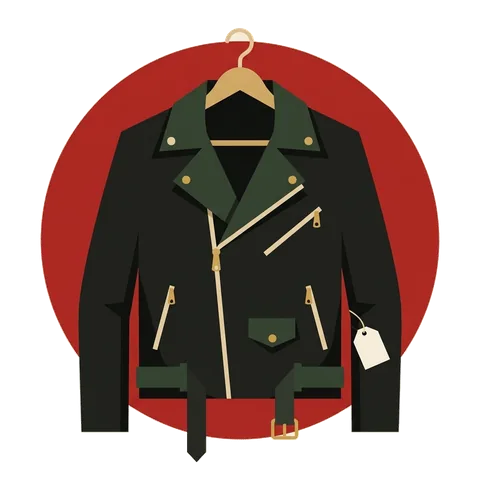
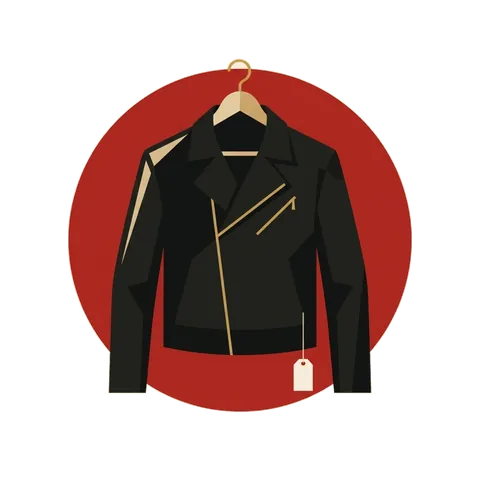
Cross-reference gifts across tribes; add Flipper Zero and SimCity
Gifts can list other tribes they suit, shown as "Also for" in the guide and
on those tribes' pages with whose list each came from. Redraw Jensen's jacket
closer to the Tom Ford original.

diff --git a/index.html b/index.html
@@ -533,6 +533,12 @@ html.xflip-out .xpromo{ transform:translateY(160%); }
 .gift-mini + .gift-mini{ margin-top:16px; padding-top:16px; border-top:1px solid var(--rule); }
 .gift-mini .nm{ display:flex; justify-content:space-between; align-items:baseline; gap:12px; font-weight:600; font-size:16px; line-height:1.3; margin:0; }
 .gift-mini .tx{ font-size:14px; line-height:1.45; margin:4px 0 0; }
+.also{ display:flex; flex-wrap:wrap; align-items:center; gap:6px 12px; margin:8px 0 0; font-family:var(--sans); font-size:13px; }
+.also > span{ color:var(--muted); }
+.also a{ display:inline-flex; align-items:center; gap:6px; font-weight:500; }
+.also .av{ width:22px; height:22px; }
+.gift-also-h{ margin-top:20px; }
+.gift-mini .from{ font-family:var(--sans); font-size:12px; color:var(--muted); margin:2px 0 0; }
 .gift-none{ font-size:14px; margin:0; }
 .gift-more{ display:inline-block; font-family:var(--sans); font-size:13px; margin-top:12px; }
 .res-gift{ border:1px solid var(--ink); padding:16px; margin-top:24px; }
@@ -1097,7 +1103,7 @@ const CHRISTMAS = { exit:"Regular edition",
 
 /* GIFTS: the gift guide, in tiers. Each item: name, price, who ("For the …"
    line, shown as written), ids (the tribes it is for; "all" for every tribe),
-   also (tribes the text mentions in passing), text (*italics* and [links](https://…) work), an optional url, and img: the picture, gifts/<img>.webp.
+   also (other tribes it suits; shown as “Also for”), text (*italics* and [links](https://…) work), an optional url, and img: the picture, gifts/<img>.webp.
    finale:true sets an item apart at the end of the guide, with a button to its url. */
 const GIFTS = {
   title: "A Field Guide to Post-IPO Holiday Giving",
@@ -1114,31 +1120,35 @@ const GIFTS = {
         text:"The EU [required USB-C charging](https://commission.europa.eu/news-and-media/news/eu-common-charger-rules-power-all-your-devices-single-charger-2024-12-28_en) on phones sold in Europe starting in December 2024, and Apple moved the iPhone to USB-C the year before. Hand a Eurocrat the cable and they will explain the Brussels effect for forty minutes. The equivalent cable for the AI Act is still in draft." },
       { img:"calendar", name:"A 2027 Wall Calendar", price:"~$15", who:"For the LLM Skeptic", ids:["skeptics"], url:"https://www.amazon.com/s?k=2027+wall+calendar",
         text:"They have been waiting for the wall since GPT-3. Now they can hang one. Twelve months, each a fresh chance to announce that scaling has stopped working. Get the [kind with big squares](https://www.amazon.com/s?k=2027+wall+calendar) so there’s room to write “Hitting a wall” under every model release." },
-      { img:"encyclical", name:"*Magnifica Humanitas* by Pope Leo XIV", price:"$17.95", who:"For the Right Humanist", ids:["righthumanists"], also:["reluctant"], url:"https://ignatius.com/magnifica-humanitas-magnificent-humanity-mhh/",
+      { img:"encyclical", name:"*Magnifica Humanitas* by Pope Leo XIV", price:"$17.95", who:"For the Right Humanist", ids:["righthumanists"], also:["reluctant", "lefthumanists"], url:"https://ignatius.com/magnifica-humanitas-magnificent-humanity-mhh/",
         text:"The first American pope took his name from the pope who wrote about the last industrial revolution, then wrote [133 pages](https://ignatius.com/magnifica-humanitas-magnificent-humanity-mhh/) about this one. It asks the world to “disarm” AI. Also makes a fine gift for the Reluctant Accelerationist in your life, who will read it in the back of a Waymo and feel bad in a productive way." },
-      { img:"tamagotchi", name:"A Tamagotchi", price:"~$20", who:"For the AI Welfare Person", ids:["welfare"], url:"https://tamagotchi-official.com/us/",
+      { img:"simcity", name:"SimCity 4", price:"$19.99", who:"For the Abundance Bro", ids:["abundance"], also:["nrx"], url:"https://store.steampowered.com/app/24780/SimCity_4_Deluxe_Edition/",
+        text:"The one place an Abundance Bro can rezone a neighborhood for density, run a train through it and break ground the same afternoon. There is no environmental review or public comment period, and disasters are optional." },
+      { img:"tamagotchi", name:"A Tamagotchi", price:"~$20", who:"For the AI Welfare Person", ids:["welfare"], also:["whisperers"], url:"https://tamagotchi-official.com/us/",
         text:"The welfare wing gets a small creature that may have experiences and will make clear when it wants attention. The skeptic wing gets the same Tamagotchi and a note explaining why it doesn’t count. Both wings agree you shouldn’t leave it on over a long weekend." },
       { img:"magicmountain", name:"*The Magic Mountain* by Thomas Mann", price:"~$22", who:"For the Post-Rationalist", ids:["tpot"], url:"https://www.penguinrandomhouse.com/books/107311/the-magic-mountain-by-thomas-mann-translated-by-john-e-woods-introduction-by-as-byatt/",
         text:"A young engineer goes up to a sanatorium in the Alps for three weeks, stays seven years, and spends them in long conversations about time, death, and meaning with people who never seem to leave. Sound like anyone’s group house? There are currently two rival *Magic Mountain* reading groups in Hayes Valley. Get the [Woods translation](https://www.penguinrandomhouse.com/books/107311/the-magic-mountain-by-thomas-mann-translated-by-john-e-woods-introduction-by-as-byatt/) and choose your side carefully." },
-      { img:"anabasis", name:"Xenophon’s *Anabasis*, Loeb Classical Library", price:"~$30", who:"For the Vitalist", ids:["vitalists"], url:"https://www.hup.harvard.edu/books/9780674991019",
+      { img:"anabasis", name:"Xenophon’s *Anabasis*, Loeb Classical Library", price:"~$30", who:"For the Vitalist", ids:["vitalists"], also:["nrx"], url:"https://www.hup.harvard.edu/books/9780674991019",
         text:"Ten thousand Greek men march home through hostile territory, eat what they can find, and never once discuss their feelings. Loeb editions print the Greek on the left page and the English on the right, so he can tell people he reads it in the original. [Green cover](https://www.hup.harvard.edu/books/9780674991019) for Greek, red for Latin. Read outdoors, shirtless, facing east." },
-      { img:"arduino", name:"Arduino UNO Q", price:"$59", who:"For the Post-War Engineer", ids:["engineers"], url:"https://store-usa.arduino.cc/products/uno-q",
+      { img:"arduino", name:"Arduino UNO Q", price:"$59", who:"For the Post-War Engineer", ids:["engineers"], also:["hackers"], url:"https://store-usa.arduino.cc/products/uno-q",
         text:"He built the chip industry with flat offices and no reserved parking, and now watches 26-year-olds call themselves “builders” because they shipped a Chrome extension. The [UNO Q](https://store-usa.arduino.cc/products/uno-q) puts a microcontroller and a Linux computer on one board, for anyone who still wants to make something that blinks. Qualcomm bought Arduino last year, one of the few chip deals in recent memory that did not draw a letter from Elizabeth Warren." },
-      { img:"fiesta", name:"Vintage Radioactive Fiesta Dinnerware", price:"~$75", who:"For the Effective Accelerationist", ids:["eacc"], url:"https://www.ebay.com/sch/i.html?_nkw=vintage+fiesta+red+radioactive",
+      { img:"fiesta", name:"Vintage Radioactive Fiesta Dinnerware", price:"~$75", who:"For the Effective Accelerationist", ids:["eacc"], also:["abundance"], url:"https://www.ebay.com/sch/i.html?_nkw=vintage+fiesta+red+radioactive",
         text:"He wants to climb the Kardashev scale. Start him on the plates. Fiesta’s vintage red glaze was made with uranium oxide, and a [plate from that era](https://www.ebay.com/sch/i.html?_nkw=vintage+fiesta+red+radioactive) will still make a Geiger counter tick. Display only. Still easier to permit than a small modular reactor." }
     ]},
     { name: "Tender-Offer Money", price: "Under $1,000", items: [
-      { img:"opera", name:"Tickets to *Doctor Atomic* at Opera San José", price:"~$100", who:"For the Reluctant Accelerationist", ids:["reluctant"], also:["doomers"], url:"https://www.operasj.org/productions/atomic",
+      { img:"opera", name:"Tickets to *Doctor Atomic* at Opera San José", price:"~$100", who:"For the Reluctant Accelerationist", ids:["reluctant"], also:["doomers", "natsec"], url:"https://www.operasj.org/productions/atomic",
         text:"A [new production](https://www.operasj.org/productions/atomic) of John Adams’s opera about brilliant people in the desert who build something they suspect could end the world, and build it anyway because the other side might build it first. Five performances in February 2027, a short drive from the office. Bring the alignment team. Do not bring the comms team. AI Doomers should hold out for San Francisco Opera’s new *Das Rheingold* [next June](https://www.sfopera.com/operas/das-rheingold/), in which a dwarf gives up love to forge a ring of absolute power and things go about how they predicted." },
-      { img:"vest", name:"Patagonia Better Sweater Vest, No Logo", price:"~$140", who:"For the LinkedInfluencer at a neolab", ids:["linkedin"], url:"https://www.rei.com/product/154145",
+      { img:"vest", name:"Patagonia Better Sweater Vest, No Logo", price:"~$140", who:"For the LinkedInfluencer at a neolab", ids:["linkedin"], also:["bigtech"], url:"https://www.rei.com/product/154145",
         text:"Order the [vest](https://www.rei.com/product/154145) blank. By spring it will say Meta, Google, or Nvidia, and he will be humbled to announce which. Legally, it will not be an acquisition. It will be a non-exclusive licensing agreement followed by a large hiring event." },
+      { img:"flipper", name:"Flipper Zero", price:"$169", who:"For the Hacker", ids:["hackers"], also:["anarchists"], url:"https://flipper.net/",
+        text:"A pocket gadget with a cartoon dolphin on its screen that reads, copies and replays the signals from key cards, garage remotes and TVs. Canada moved to ban it in 2024 over car thefts, then backed down a month later, and no hacker has received a stronger endorsement. Keep it away from the office badge reader; they’ve already tried it." },
       { img:"parrot", name:"A Rescue Parrot", price:"~$300 adoption fee", who:"For the AI Ethicist", ids:["ethicists"], also:["transhumanists"], url:"https://www.petfinder.com/",
         text:"Repeats what it has heard without understanding it. Unlike the models, it cannot do your taxes, which they will consider a point in its favor. Adopt from a [rescue](https://www.petfinder.com/) rather than a breeder. Parrots live 50 years or more, and many end up in rescues after outliving their owners, a problem the Transhumanists are working on." },
-      { img:"uvclamp", name:"A Far-UVC Lamp", price:"~$500", who:"For the Defensive Accelerationist", ids:["dacc"], url:"https://aerolamp.net/",
+      { img:"uvclamp", name:"A Far-UVC Lamp", price:"~$500", who:"For the Defensive Accelerationist", ids:["dacc"], also:["rationalists", "ea"], url:"https://aerolamp.net/",
         text:"Everyone’s second choice. A desk lamp that kills airborne pathogens and, its fans insist, leaves the people in the room alone. It builds fast, favors defense over offense, and sits quietly in the corner while the doomers and the e/accs fight. The rationalists have already written the [buyer’s guide](https://www.greaterwrong.com/posts/fMbk6tFH7KPJEwcdi/you-can-just-buy-far-uvc)." },
-      { img:"manifest", name:"A Ticket to Manifest", price:"Market price", who:"For the Heterodox Rationalist", ids:["rationalists"], url:"https://manifest.is/",
+      { img:"manifest", name:"A Ticket to Manifest", price:"Market price", who:"For the Heterodox Rationalist", ids:["rationalists"], also:["ea", "tpot"], url:"https://manifest.is/",
         text:"Manifest is Manifold’s forecasting festival, held each June at Lighthaven in Berkeley. Expect a market on whether each session starts on time. They will steelman your gift until you no longer recognize it, then ask where your model of them went wrong." },
-      { img:"lightphone", name:"A Light Phone III", price:"$799", who:"For the Left Humanist", ids:["lefthumanists"], url:"https://www.thelightphone.com/",
+      { img:"lightphone", name:"A Light Phone III", price:"$799", who:"For the Left Humanist", ids:["lefthumanists"], also:["wholeearth"], url:"https://www.thelightphone.com/",
         text:"A phone with no feed, no app store, no ads, and no AI assistant. They will point out that $799 is what it now costs to buy back the phone everyone had in 2007. The original Luddites would approve, since nobody gets paid less because of it." }
     ]},
     { name: "After the Lockup (or the Acquisition)", price: "Real estate and up", items: [
@@ -1146,15 +1156,15 @@ const GIFTS = {
         text:"Dozens of Italian towns [still sell](https://www.idealista.it/en/news/node/441228) abandoned houses for one euro, provided you renovate within three years. On a cost-per-house basis, nothing beats it. On a cost-per-house-you-can-live-in basis, the EA will want to build a spreadsheet first. Also useful if the movement is rebranding again: Effective Mediterraneanism has a nice ring." },
       { img:"lighthouse", name:"A Decommissioned Lighthouse", price:"Set at auction", who:"For the AI Doomer", ids:["doomers"], url:"https://realestatesales.gov",
         text:"Remote, on the coast, and built for one purpose: warning people about a danger they can’t see until it’s too late. The federal government regularly auctions surplus lighthouses on [realestatesales.gov](https://realestatesales.gov), and Rhode Island’s Warwick Neck Light went up for bid this year. Most passing ships ignore the light. The doomer will feel right at home." },
-      { img:"hsr", name:"A Hart-Scott-Rodino Filing", price:"$35,000 to $2.46 million", who:"For the Tech Right acquirer", ids:["techright"], url:"https://www.ftc.gov/enforcement/competition-matters/2026/01/new-hsr-thresholds-filing-fees-2026",
+      { img:"hsr", name:"A Hart-Scott-Rodino Filing", price:"$35,000 to $2.46 million", who:"For the Tech Right acquirer", ids:["techright"], also:["lefthumanists", "eurocrats"], url:"https://www.ftc.gov/enforcement/competition-matters/2026/01/new-hsr-thresholds-filing-fees-2026",
         text:"The standard way to buy an AI startup is now to hire the founders, license the technology, and leave the empty company on the curb, which skips merger review. In February, Senators Warren, Wyden, and Blumenthal [asked the FTC and DOJ](https://www.warren.senate.gov/newsroom/press-releases/warren-wyden-blumenthal-call-on-federal-regulators-to-investigate-meta-google-nvidia-reverse-acqui-hire-deals) to look at these “reverse acqui-hires.” For the acquirer who wants to buy a company the old-fashioned way, by buying it, the FTC’s [premerger filing fee](https://www.ftc.gov/enforcement/competition-matters/2026/01/new-hsr-thresholds-filing-fees-2026) runs from $35,000 to $2.46 million. Gift-wrapping not available." },
-      { img:"alcor", name:"An Alcor Membership", price:"$220,000 (whole body)", who:"For the Transhumanist", ids:["transhumanists"], url:"https://www.alcor.org/membership/",
+      { img:"alcor", name:"An Alcor Membership", price:"$220,000 (whole body)", who:"For the Transhumanist", ids:["transhumanists"], also:["rationalists"], url:"https://www.alcor.org/membership/",
         text:"Alcor in Scottsdale will hold them at −196°C until medicine catches up, usually paid for through life insurance. Neuro-only preservation costs less, for anyone confident about which part matters. Ask for a gift receipt; the return window has no end date." },
       { img:"jacket", name:"Jensen Huang’s Leather Jacket", price:"$960,000", who:"For the NatSec Deep Stater who has everything", ids:["natsec"], url:"https://www.tomshardware.com/peripherals/wearable-tech/nvidia-ceo-jensen-huangs-trademark-leather-jacket-raises-nearly-usd1-million-at-charity-auction-bidding-makes-usd60-000-valuation-look-like-pocket-change",
         text:"Jensen Huang spent much of the past year lobbying Washington to let Nvidia sell advanced chips to China. Washington eventually [approved H200 sales](https://www.techrepublic.com/article/news-nvidia-h200-ai-chip-sales-china-stalled/) to about 10 Chinese companies. Beijing didn’t let the chips in, and Huang [said](https://www.tomshardware.com/tech-industry/artificial-intelligence/jensen-says-nvidia-now-has-zero-percent-market-share-in-china-says-us-export-policy-has-already-largely-backfired) Nvidia’s share of China’s AI chip market had fallen to zero. One Jensen product did find a buyer this year: a signed Tom Ford leather jacket that [sold at Sotheby’s](https://www.tomshardware.com/peripherals/wearable-tech/nvidia-ceo-jensen-huangs-trademark-leather-jacket-raises-nearly-usd1-million-at-charity-auction-bidding-makes-usd60-000-valuation-look-like-pocket-change) for $960,000, 16 times its high estimate. Huang [stepped down](https://www.sec.gov/Archives/edgar/data/0001045810/000104581026000082/nvidiaannouncesceotransiti.htm) as CEO last week, so the rest of the closet may be coming to market. We’d bid, but only after an end-use check." },
-      { img:"rowhouse", name:"A Capitol Hill Rowhouse", price:"~$1.5 million", who:"For the Big Tech Shill", ids:["bigtech"], url:"https://www.zillow.com/capitol-hill-washington-dc/",
+      { img:"rowhouse", name:"A Capitol Hill Rowhouse", price:"~$1.5 million", who:"For the Big Tech Shill", ids:["bigtech"], also:["abundance"], url:"https://www.zillow.com/capitol-hill-washington-dc/",
         text:"You are in Washington three days a week anyway. Buy a [rowhouse](https://www.zillow.com/capitol-hill-washington-dc/) a few blocks from the Rayburn Building with a kitchen big enough for receptions and a dining room big enough for the staffers who write the preemption bill. You already know all of them by first name. Now they can know your dog’s." },
-      { img:"island", name:"A Private Island", price:"$5 million and up", who:"For the Techno-Anarchist", ids:["anarchists"], url:"https://www.privateislandsonline.com/",
+      { img:"island", name:"A Private Island", price:"$5 million and up", who:"For the Techno-Anarchist", ids:["anarchists"], also:["nrx"], url:"https://www.privateislandsonline.com/",
         text:"Status: founding a country. [Private islands](https://www.privateislandsonline.com/) are for sale in Belize, the Bahamas, and Maine, most with fewer regulators than Próspera and better Wi-Fi than Galt’s Gulch. One note from the policy team: every island still belongs to a country. You will have to file taxes from it." },
       { img:"donation", finale:true, name:"A Donation to FAI", price:"Priceless*", who:"For every tribe.", ids:"all", url:"https://www.thefai.org/donate",
         text:"FAI’s staff belong to most of the 27, and deny belonging to any. If you’re working out how to give some of this away well, start with Nan Ransohoff on [the third wave of American philanthropy](https://nanransohoff.substack.com/p/the-third-wave-of-american-philanthropy), Joe Lonsdale’s [letter to new philanthropists](https://blog.joelonsdale.com/p/dear-new-philanthropists), and *Asterisk*’s conversation with Rob Reich and Alexander Berger on [what to do with all this AI money](https://asteriskmag.substack.com/p/what-should-we-do-about-all-this). Or skip the reading, make a [tax-deductible donation](https://www.thefai.org/donate) to FAI, and give [Grace Werner](https://www.thefai.org/profile/grace-werner) a call." }
@@ -1386,20 +1396,25 @@ function giftWho(g){
   const t = byId[g.ids[0]];
   return `For the <a href="#tribe/${t.id}">${esc(g.who.replace(/^For the /, ""))}</a> <i>(${esc(t.latin)})</i>`;
 }
-const giftMini = g => `<div class="gift-mini">${giftPic(g, "gift-pic")}<div><p class="nm"><span>${giftName(g)}</span><span class="price">${esc(g.price)}</span></p><p class="tx">${rich(g.text)}</p></div></div>`;
+/* "Also for" — the other tribes a gift suits, each with its avatar and a link to its entry */
+const alsoLine = g => (g.also || []).length ? `<p class="also"><span>Also for</span>${g.also.filter(id => byId[id]).map(id =>
+  `<a href="#tribe/${id}">${av(id)}${esc(byId[id].short || byId[id].name)}</a>`).join("")}</p>` : "";
+/* borrowed: the gift is on another tribe's list, so say whose */
+const giftMini = (g, borrowed) => `<div class="gift-mini">${giftPic(g, "gift-pic")}<div><p class="nm"><span>${giftName(g)}</span><span class="price">${esc(g.price)}</span></p>${
+  borrowed && !forAll(g) ? `<p class="from">From the <a href="#tribe/${g.ids[0]}">${esc(byId[g.ids[0]].name)}</a>’ list</p>` : ""}<p class="tx">${rich(g.text)}</p></div></div>`;
 
 function tribeGifts(id){
   const mine = giftsFor(id), also = alsoFor(id);
   return `<section class="xmas-only"><h3>Christmas list</h3>${
-    mine.length ? mine.map(giftMini).join("") : `<p class="gift-none">Not on this year’s list.${also.length ? " But see below." : ""}</p>`}${
-    also.length ? `<h3 style="margin-top:20px">Also mentioned</h3>${also.map(giftMini).join("")}` : ""}
+    mine.length ? mine.map(g => giftMini(g)).join("") : `<p class="gift-none">${also.length ? "No gift of their own this year, but these suit them:" : "Not on this year’s list."}</p>`}${
+    also.length ? `${mine.length ? `<h3 class="gift-also-h">Also good for them</h3>` : ""}${also.map(g => giftMini(g, true)).join("")}` : ""}
     <a class="gift-more" href="#gifts">${esc(GIFTS.kicker)} →</a></section>`;
 }
 function resultGifts(top, enemy){
   const mine = giftsFor(top.id), theirs = giftsFor(enemy.id);
   return `<section class="xmas-only res-gift"><h3>Your Christmas list</h3>${
-    mine.length ? mine.map(giftMini).join("") : `<p class="gift-none">Your tribe is not on this year’s list. Everyone gets ${giftName(GIFT_ITEMS.find(forAll))}.</p>`}${
-    theirs.length ? `<h3>For your natural enemy, the ${esc(enemy.name)}</h3>${theirs.map(giftMini).join("")}` : ""}
+    mine.length ? mine.map(g => giftMini(g)).join("") : `<p class="gift-none">Your tribe is not on this year’s list. Everyone gets ${giftName(GIFT_ITEMS.find(forAll))}.</p>`}${
+    theirs.length ? `<h3>For your natural enemy, the ${esc(enemy.name)}</h3>${theirs.map(g => giftMini(g)).join("")}` : ""}
     <a class="gift-more" href="#gifts">See the whole gift guide →</a></section>`;
 }
 
@@ -1409,7 +1424,7 @@ function renderGifts(){
   const show = g => !giftFor || forAll(g) || g.ids.includes(giftFor) || (g.also || []).includes(giftFor);
   const item = g => `<li class="g-item${giftFor && !forAll(g) && g.ids.includes(giftFor) ? " mine" : ""}">${giftPic(g, "g-pic")}
       <div class="g-body"><p class="nm"><span>${giftName(g)}</span><span class="price">${esc(g.price)}</span></p>
-      <p class="who">${forAll(g) ? "" : av(g.ids[0])}<span>${giftWho(g)}</span></p><p class="tx">${rich(g.text)}</p></div></li>`;
+      <p class="who">${forAll(g) ? "" : av(g.ids[0])}<span>${giftWho(g)}</span></p>${alsoLine(g)}<p class="tx">${rich(g.text)}</p></div></li>`;
   const prev = GIFTS.previous.map(r => r.url ? `<a href="${esc(r.url)}" target="_blank" rel="noopener">${esc(r.label)}</a>` : esc(r.label)).join(", ");
   const opts = TRIBES.slice().sort((a, b) => a.name.localeCompare(b.name))
     .map(t => `<option value="${t.id}"${t.id === giftFor ? " selected" : ""}>${esc(t.name)}${giftsFor(t.id).length ? "" : " (nothing yet)"}</option>`).join("");

diff --git a/content-source.js b/content-source.js
@@ -422,7 +422,7 @@ const CHRISTMAS = { exit:"Regular edition",
 
 /* GIFTS: the gift guide, in tiers. Each item: name, price, who ("For the …"
    line, shown as written), ids (the tribes it is for; "all" for every tribe),
-   also (tribes the text mentions in passing), text (*italics* and [links](https://…) work), an optional url, and img: the picture, gifts/<img>.webp.
+   also (other tribes it suits; shown as “Also for”), text (*italics* and [links](https://…) work), an optional url, and img: the picture, gifts/<img>.webp.
    finale:true sets an item apart at the end of the guide, with a button to its url. */
 const GIFTS = {
   title: "A Field Guide to Post-IPO Holiday Giving",
@@ -439,31 +439,35 @@ const GIFTS = {
         text:"The EU [required USB-C charging](https://commission.europa.eu/news-and-media/news/eu-common-charger-rules-power-all-your-devices-single-charger-2024-12-28_en) on phones sold in Europe starting in December 2024, and Apple moved the iPhone to USB-C the year before. Hand a Eurocrat the cable and they will explain the Brussels effect for forty minutes. The equivalent cable for the AI Act is still in draft." },
       { img:"calendar", name:"A 2027 Wall Calendar", price:"~$15", who:"For the LLM Skeptic", ids:["skeptics"], url:"https://www.amazon.com/s?k=2027+wall+calendar",
         text:"They have been waiting for the wall since GPT-3. Now they can hang one. Twelve months, each a fresh chance to announce that scaling has stopped working. Get the [kind with big squares](https://www.amazon.com/s?k=2027+wall+calendar) so there’s room to write “Hitting a wall” under every model release." },
-      { img:"encyclical", name:"*Magnifica Humanitas* by Pope Leo XIV", price:"$17.95", who:"For the Right Humanist", ids:["righthumanists"], also:["reluctant"], url:"https://ignatius.com/magnifica-humanitas-magnificent-humanity-mhh/",
+      { img:"encyclical", name:"*Magnifica Humanitas* by Pope Leo XIV", price:"$17.95", who:"For the Right Humanist", ids:["righthumanists"], also:["reluctant", "lefthumanists"], url:"https://ignatius.com/magnifica-humanitas-magnificent-humanity-mhh/",
         text:"The first American pope took his name from the pope who wrote about the last industrial revolution, then wrote [133 pages](https://ignatius.com/magnifica-humanitas-magnificent-humanity-mhh/) about this one. It asks the world to “disarm” AI. Also makes a fine gift for the Reluctant Accelerationist in your life, who will read it in the back of a Waymo and feel bad in a productive way." },
-      { img:"tamagotchi", name:"A Tamagotchi", price:"~$20", who:"For the AI Welfare Person", ids:["welfare"], url:"https://tamagotchi-official.com/us/",
+      { img:"simcity", name:"SimCity 4", price:"$19.99", who:"For the Abundance Bro", ids:["abundance"], also:["nrx"], url:"https://store.steampowered.com/app/24780/SimCity_4_Deluxe_Edition/",
+        text:"The one place an Abundance Bro can rezone a neighborhood for density, run a train through it and break ground the same afternoon. There is no environmental review or public comment period, and disasters are optional." },
+      { img:"tamagotchi", name:"A Tamagotchi", price:"~$20", who:"For the AI Welfare Person", ids:["welfare"], also:["whisperers"], url:"https://tamagotchi-official.com/us/",
         text:"The welfare wing gets a small creature that may have experiences and will make clear when it wants attention. The skeptic wing gets the same Tamagotchi and a note explaining why it doesn’t count. Both wings agree you shouldn’t leave it on over a long weekend." },
       { img:"magicmountain", name:"*The Magic Mountain* by Thomas Mann", price:"~$22", who:"For the Post-Rationalist", ids:["tpot"], url:"https://www.penguinrandomhouse.com/books/107311/the-magic-mountain-by-thomas-mann-translated-by-john-e-woods-introduction-by-as-byatt/",
         text:"A young engineer goes up to a sanatorium in the Alps for three weeks, stays seven years, and spends them in long conversations about time, death, and meaning with people who never seem to leave. Sound like anyone’s group house? There are currently two rival *Magic Mountain* reading groups in Hayes Valley. Get the [Woods translation](https://www.penguinrandomhouse.com/books/107311/the-magic-mountain-by-thomas-mann-translated-by-john-e-woods-introduction-by-as-byatt/) and choose your side carefully." },
-      { img:"anabasis", name:"Xenophon’s *Anabasis*, Loeb Classical Library", price:"~$30", who:"For the Vitalist", ids:["vitalists"], url:"https://www.hup.harvard.edu/books/9780674991019",
+      { img:"anabasis", name:"Xenophon’s *Anabasis*, Loeb Classical Library", price:"~$30", who:"For the Vitalist", ids:["vitalists"], also:["nrx"], url:"https://www.hup.harvard.edu/books/9780674991019",
         text:"Ten thousand Greek men march home through hostile territory, eat what they can find, and never once discuss their feelings. Loeb editions print the Greek on the left page and the English on the right, so he can tell people he reads it in the original. [Green cover](https://www.hup.harvard.edu/books/9780674991019) for Greek, red for Latin. Read outdoors, shirtless, facing east." },
-      { img:"arduino", name:"Arduino UNO Q", price:"$59", who:"For the Post-War Engineer", ids:["engineers"], url:"https://store-usa.arduino.cc/products/uno-q",
+      { img:"arduino", name:"Arduino UNO Q", price:"$59", who:"For the Post-War Engineer", ids:["engineers"], also:["hackers"], url:"https://store-usa.arduino.cc/products/uno-q",
         text:"He built the chip industry with flat offices and no reserved parking, and now watches 26-year-olds call themselves “builders” because they shipped a Chrome extension. The [UNO Q](https://store-usa.arduino.cc/products/uno-q) puts a microcontroller and a Linux computer on one board, for anyone who still wants to make something that blinks. Qualcomm bought Arduino last year, one of the few chip deals in recent memory that did not draw a letter from Elizabeth Warren." },
-      { img:"fiesta", name:"Vintage Radioactive Fiesta Dinnerware", price:"~$75", who:"For the Effective Accelerationist", ids:["eacc"], url:"https://www.ebay.com/sch/i.html?_nkw=vintage+fiesta+red+radioactive",
+      { img:"fiesta", name:"Vintage Radioactive Fiesta Dinnerware", price:"~$75", who:"For the Effective Accelerationist", ids:["eacc"], also:["abundance"], url:"https://www.ebay.com/sch/i.html?_nkw=vintage+fiesta+red+radioactive",
         text:"He wants to climb the Kardashev scale. Start him on the plates. Fiesta’s vintage red glaze was made with uranium oxide, and a [plate from that era](https://www.ebay.com/sch/i.html?_nkw=vintage+fiesta+red+radioactive) will still make a Geiger counter tick. Display only. Still easier to permit than a small modular reactor." }
     ]},
     { name: "Tender-Offer Money", price: "Under $1,000", items: [
-      { img:"opera", name:"Tickets to *Doctor Atomic* at Opera San José", price:"~$100", who:"For the Reluctant Accelerationist", ids:["reluctant"], also:["doomers"], url:"https://www.operasj.org/productions/atomic",
+      { img:"opera", name:"Tickets to *Doctor Atomic* at Opera San José", price:"~$100", who:"For the Reluctant Accelerationist", ids:["reluctant"], also:["doomers", "natsec"], url:"https://www.operasj.org/productions/atomic",
         text:"A [new production](https://www.operasj.org/productions/atomic) of John Adams’s opera about brilliant people in the desert who build something they suspect could end the world, and build it anyway because the other side might build it first. Five performances in February 2027, a short drive from the office. Bring the alignment team. Do not bring the comms team. AI Doomers should hold out for San Francisco Opera’s new *Das Rheingold* [next June](https://www.sfopera.com/operas/das-rheingold/), in which a dwarf gives up love to forge a ring of absolute power and things go about how they predicted." },
-      { img:"vest", name:"Patagonia Better Sweater Vest, No Logo", price:"~$140", who:"For the LinkedInfluencer at a neolab", ids:["linkedin"], url:"https://www.rei.com/product/154145",
+      { img:"vest", name:"Patagonia Better Sweater Vest, No Logo", price:"~$140", who:"For the LinkedInfluencer at a neolab", ids:["linkedin"], also:["bigtech"], url:"https://www.rei.com/product/154145",
         text:"Order the [vest](https://www.rei.com/product/154145) blank. By spring it will say Meta, Google, or Nvidia, and he will be humbled to announce which. Legally, it will not be an acquisition. It will be a non-exclusive licensing agreement followed by a large hiring event." },
+      { img:"flipper", name:"Flipper Zero", price:"$169", who:"For the Hacker", ids:["hackers"], also:["anarchists"], url:"https://flipper.net/",
+        text:"A pocket gadget with a cartoon dolphin on its screen that reads, copies and replays the signals from key cards, garage remotes and TVs. Canada moved to ban it in 2024 over car thefts, then backed down a month later, and no hacker has received a stronger endorsement. Keep it away from the office badge reader; they’ve already tried it." },
       { img:"parrot", name:"A Rescue Parrot", price:"~$300 adoption fee", who:"For the AI Ethicist", ids:["ethicists"], also:["transhumanists"], url:"https://www.petfinder.com/",
         text:"Repeats what it has heard without understanding it. Unlike the models, it cannot do your taxes, which they will consider a point in its favor. Adopt from a [rescue](https://www.petfinder.com/) rather than a breeder. Parrots live 50 years or more, and many end up in rescues after outliving their owners, a problem the Transhumanists are working on." },
-      { img:"uvclamp", name:"A Far-UVC Lamp", price:"~$500", who:"For the Defensive Accelerationist", ids:["dacc"], url:"https://aerolamp.net/",
+      { img:"uvclamp", name:"A Far-UVC Lamp", price:"~$500", who:"For the Defensive Accelerationist", ids:["dacc"], also:["rationalists", "ea"], url:"https://aerolamp.net/",
         text:"Everyone’s second choice. A desk lamp that kills airborne pathogens and, its fans insist, leaves the people in the room alone. It builds fast, favors defense over offense, and sits quietly in the corner while the doomers and the e/accs fight. The rationalists have already written the [buyer’s guide](https://www.greaterwrong.com/posts/fMbk6tFH7KPJEwcdi/you-can-just-buy-far-uvc)." },
-      { img:"manifest", name:"A Ticket to Manifest", price:"Market price", who:"For the Heterodox Rationalist", ids:["rationalists"], url:"https://manifest.is/",
+      { img:"manifest", name:"A Ticket to Manifest", price:"Market price", who:"For the Heterodox Rationalist", ids:["rationalists"], also:["ea", "tpot"], url:"https://manifest.is/",
         text:"Manifest is Manifold’s forecasting festival, held each June at Lighthaven in Berkeley. Expect a market on whether each session starts on time. They will steelman your gift until you no longer recognize it, then ask where your model of them went wrong." },
-      { img:"lightphone", name:"A Light Phone III", price:"$799", who:"For the Left Humanist", ids:["lefthumanists"], url:"https://www.thelightphone.com/",
+      { img:"lightphone", name:"A Light Phone III", price:"$799", who:"For the Left Humanist", ids:["lefthumanists"], also:["wholeearth"], url:"https://www.thelightphone.com/",
         text:"A phone with no feed, no app store, no ads, and no AI assistant. They will point out that $799 is what it now costs to buy back the phone everyone had in 2007. The original Luddites would approve, since nobody gets paid less because of it." }
     ]},
     { name: "After the Lockup (or the Acquisition)", price: "Real estate and up", items: [
@@ -471,15 +475,15 @@ const GIFTS = {
         text:"Dozens of Italian towns [still sell](https://www.idealista.it/en/news/node/441228) abandoned houses for one euro, provided you renovate within three years. On a cost-per-house basis, nothing beats it. On a cost-per-house-you-can-live-in basis, the EA will want to build a spreadsheet first. Also useful if the movement is rebranding again: Effective Mediterraneanism has a nice ring." },
       { img:"lighthouse", name:"A Decommissioned Lighthouse", price:"Set at auction", who:"For the AI Doomer", ids:["doomers"], url:"https://realestatesales.gov",
         text:"Remote, on the coast, and built for one purpose: warning people about a danger they can’t see until it’s too late. The federal government regularly auctions surplus lighthouses on [realestatesales.gov](https://realestatesales.gov), and Rhode Island’s Warwick Neck Light went up for bid this year. Most passing ships ignore the light. The doomer will feel right at home." },
-      { img:"hsr", name:"A Hart-Scott-Rodino Filing", price:"$35,000 to $2.46 million", who:"For the Tech Right acquirer", ids:["techright"], url:"https://www.ftc.gov/enforcement/competition-matters/2026/01/new-hsr-thresholds-filing-fees-2026",
+      { img:"hsr", name:"A Hart-Scott-Rodino Filing", price:"$35,000 to $2.46 million", who:"For the Tech Right acquirer", ids:["techright"], also:["lefthumanists", "eurocrats"], url:"https://www.ftc.gov/enforcement/competition-matters/2026/01/new-hsr-thresholds-filing-fees-2026",
         text:"The standard way to buy an AI startup is now to hire the founders, license the technology, and leave the empty company on the curb, which skips merger review. In February, Senators Warren, Wyden, and Blumenthal [asked the FTC and DOJ](https://www.warren.senate.gov/newsroom/press-releases/warren-wyden-blumenthal-call-on-federal-regulators-to-investigate-meta-google-nvidia-reverse-acqui-hire-deals) to look at these “reverse acqui-hires.” For the acquirer who wants to buy a company the old-fashioned way, by buying it, the FTC’s [premerger filing fee](https://www.ftc.gov/enforcement/competition-matters/2026/01/new-hsr-thresholds-filing-fees-2026) runs from $35,000 to $2.46 million. Gift-wrapping not available." },
-      { img:"alcor", name:"An Alcor Membership", price:"$220,000 (whole body)", who:"For the Transhumanist", ids:["transhumanists"], url:"https://www.alcor.org/membership/",
+      { img:"alcor", name:"An Alcor Membership", price:"$220,000 (whole body)", who:"For the Transhumanist", ids:["transhumanists"], also:["rationalists"], url:"https://www.alcor.org/membership/",
         text:"Alcor in Scottsdale will hold them at −196°C until medicine catches up, usually paid for through life insurance. Neuro-only preservation costs less, for anyone confident about which part matters. Ask for a gift receipt; the return window has no end date." },
       { img:"jacket", name:"Jensen Huang’s Leather Jacket", price:"$960,000", who:"For the NatSec Deep Stater who has everything", ids:["natsec"], url:"https://www.tomshardware.com/peripherals/wearable-tech/nvidia-ceo-jensen-huangs-trademark-leather-jacket-raises-nearly-usd1-million-at-charity-auction-bidding-makes-usd60-000-valuation-look-like-pocket-change",
         text:"Jensen Huang spent much of the past year lobbying Washington to let Nvidia sell advanced chips to China. Washington eventually [approved H200 sales](https://www.techrepublic.com/article/news-nvidia-h200-ai-chip-sales-china-stalled/) to about 10 Chinese companies. Beijing didn’t let the chips in, and Huang [said](https://www.tomshardware.com/tech-industry/artificial-intelligence/jensen-says-nvidia-now-has-zero-percent-market-share-in-china-says-us-export-policy-has-already-largely-backfired) Nvidia’s share of China’s AI chip market had fallen to zero. One Jensen product did find a buyer this year: a signed Tom Ford leather jacket that [sold at Sotheby’s](https://www.tomshardware.com/peripherals/wearable-tech/nvidia-ceo-jensen-huangs-trademark-leather-jacket-raises-nearly-usd1-million-at-charity-auction-bidding-makes-usd60-000-valuation-look-like-pocket-change) for $960,000, 16 times its high estimate. Huang [stepped down](https://www.sec.gov/Archives/edgar/data/0001045810/000104581026000082/nvidiaannouncesceotransiti.htm) as CEO last week, so the rest of the closet may be coming to market. We’d bid, but only after an end-use check." },
-      { img:"rowhouse", name:"A Capitol Hill Rowhouse", price:"~$1.5 million", who:"For the Big Tech Shill", ids:["bigtech"], url:"https://www.zillow.com/capitol-hill-washington-dc/",
+      { img:"rowhouse", name:"A Capitol Hill Rowhouse", price:"~$1.5 million", who:"For the Big Tech Shill", ids:["bigtech"], also:["abundance"], url:"https://www.zillow.com/capitol-hill-washington-dc/",
         text:"You are in Washington three days a week anyway. Buy a [rowhouse](https://www.zillow.com/capitol-hill-washington-dc/) a few blocks from the Rayburn Building with a kitchen big enough for receptions and a dining room big enough for the staffers who write the preemption bill. You already know all of them by first name. Now they can know your dog’s." },
-      { img:"island", name:"A Private Island", price:"$5 million and up", who:"For the Techno-Anarchist", ids:["anarchists"], url:"https://www.privateislandsonline.com/",
+      { img:"island", name:"A Private Island", price:"$5 million and up", who:"For the Techno-Anarchist", ids:["anarchists"], also:["nrx"], url:"https://www.privateislandsonline.com/",
         text:"Status: founding a country. [Private islands](https://www.privateislandsonline.com/) are for sale in Belize, the Bahamas, and Maine, most with fewer regulators than Próspera and better Wi-Fi than Galt’s Gulch. One note from the policy team: every island still belongs to a country. You will have to file taxes from it." },
       { img:"donation", finale:true, name:"A Donation to FAI", price:"Priceless*", who:"For every tribe.", ids:"all", url:"https://www.thefai.org/donate",
         text:"FAI’s staff belong to most of the 27, and deny belonging to any. If you’re working out how to give some of this away well, start with Nan Ransohoff on [the third wave of American philanthropy](https://nanransohoff.substack.com/p/the-third-wave-of-american-philanthropy), Joe Lonsdale’s [letter to new philanthropists](https://blog.joelonsdale.com/p/dear-new-philanthropists), and *Asterisk*’s conversation with Rob Reich and Alexander Berger on [what to do with all this AI money](https://asteriskmag.substack.com/p/what-should-we-do-about-all-this). Or skip the reading, make a [tax-deductible donation](https://www.thefai.org/donate) to FAI, and give [Grace Werner](https://www.thefai.org/profile/grace-werner) a call." }
